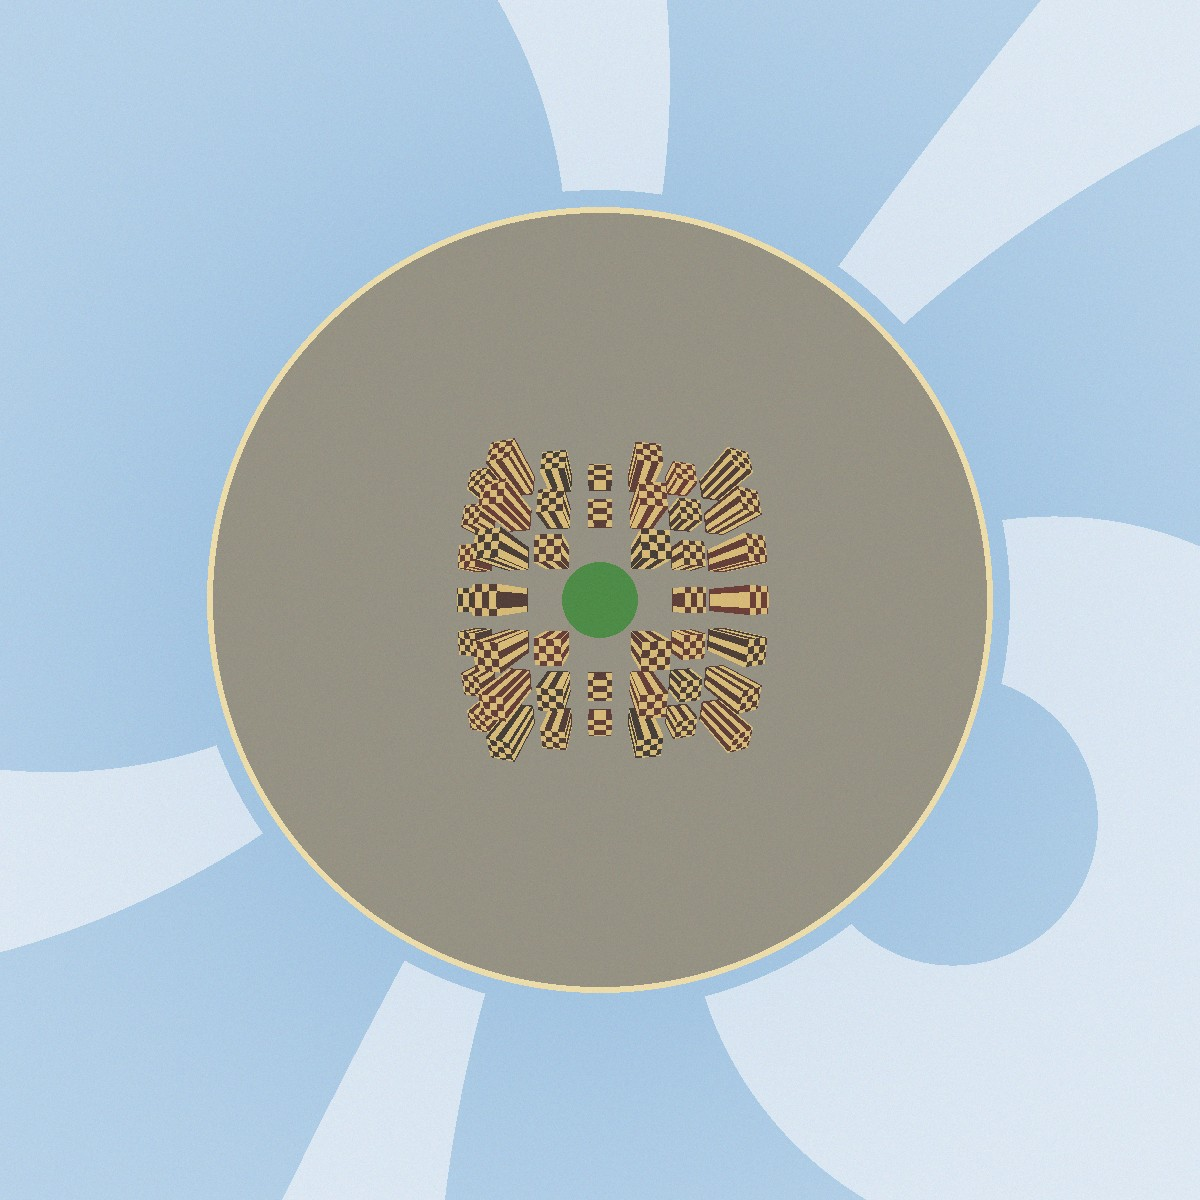
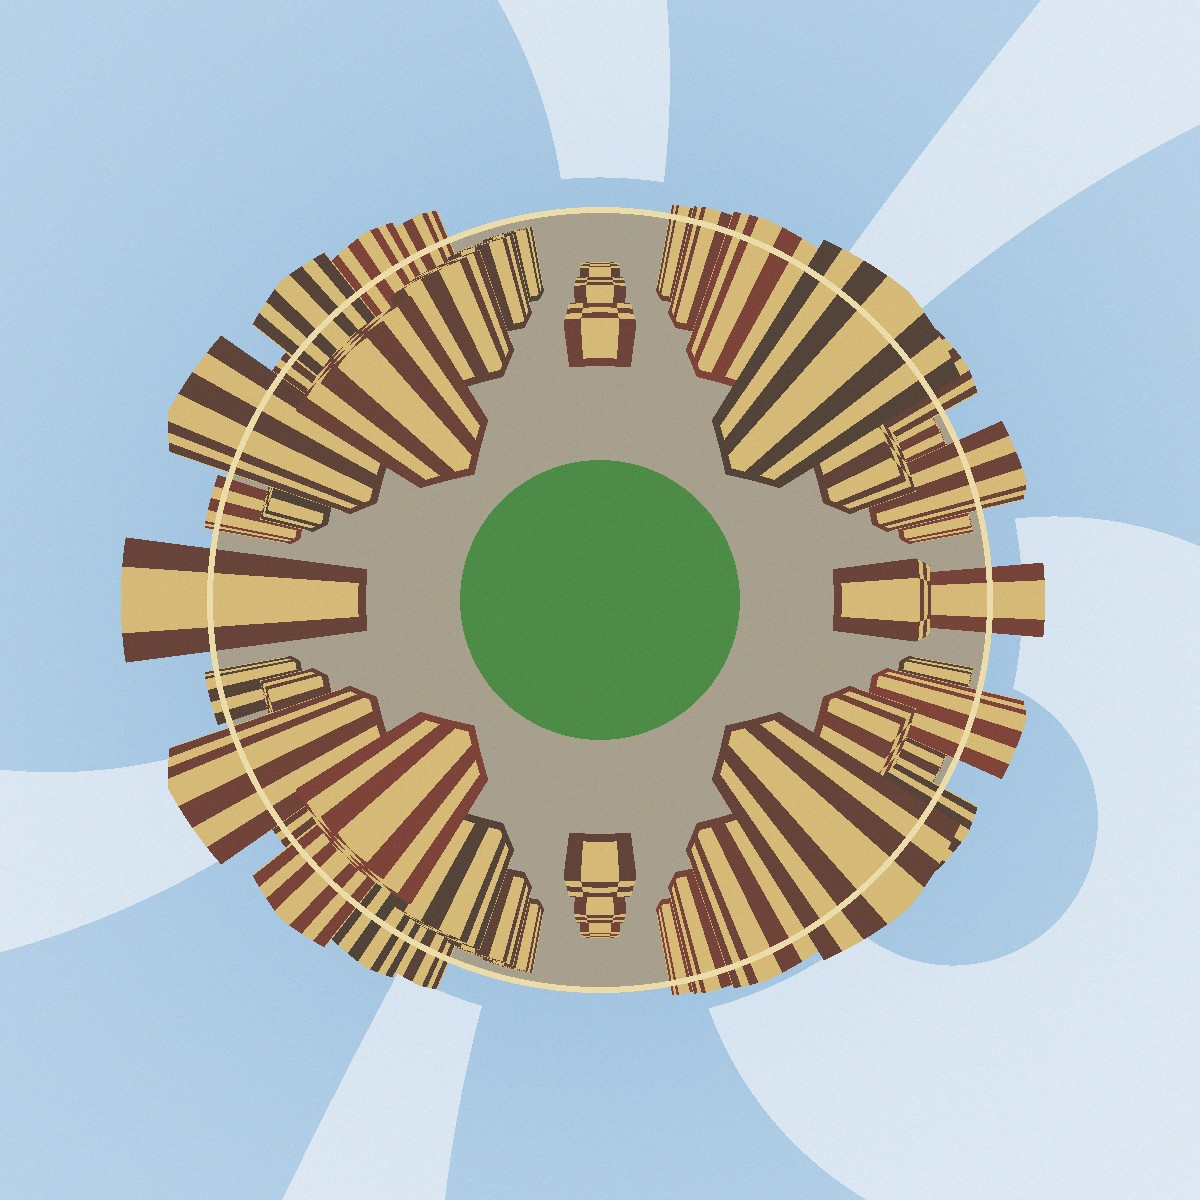
Fix top-view center detection and add center nudges

Changed region(s): [[0.0925, 0.1233, 0.8942, 0.8633]]

diff --git a/en.html b/en.html
@@ -89,6 +89,12 @@
       <p class="note">Where to start unwrapping the circle. 0° is the right side. A full turn returns to the same picture.</p>
     </div>
 
+    <label>Center left–right <span class="val" id="cxVal">0%</span></label>
+    <input id="cx" type="range" min="-40" max="40" value="0" step="1" />
+    <label>Center up–down <span class="val" id="cyVal">0%</span></label>
+    <input id="cy" type="range" min="-40" max="40" value="0" step="1" />
+    <p class="note">0% is the circle found automatically, as a percent of its radius. Right and down are positive. Used for every view and every crop.</p>
+
     <label class="check"><input id="auto" type="checkbox" checked /> Convert automatically after upload</label>
     <label class="check"><input id="mirror" type="checkbox" /> Flip left–right</label>
 
@@ -233,51 +239,58 @@ function detectBottom() {
 }
 
 function detectTop() {
-  const N = 120;
-  const lum = new Float32Array(N * N);
+  const N = 90;
+  const pix = new Float32Array(N * N * 3);
   for (let y = 0; y < N; y++) {
     const iy = Math.min(srcH - 1, ((y + 0.5) * srcH / N) | 0);
     for (let x = 0; x < N; x++) {
       const ix = Math.min(srcW - 1, ((x + 0.5) * srcW / N) | 0);
       const i = (iy * srcW + ix) * 4;
-      lum[y * N + x] = (srcData[i] + srcData[i + 1] + srcData[i + 2]) / 3;
+      const o = (y * N + x) * 3;
+      pix[o] = srcData[i]; pix[o + 1] = srcData[i + 1]; pix[o + 2] = srcData[i + 2];
     }
   }
-  const vari = new Float32Array(N * N);
-  for (let y = 1; y < N - 1; y++) {
-    for (let x = 1; x < N - 1; x++) {
-      let s = 0, s2 = 0;
-      for (let dy = -1; dy <= 1; dy++) for (let dx = -1; dx <= 1; dx++) {
-        const v = lum[(y + dy) * N + x + dx];
-        s += v; s2 += v * v;
+  function bestRing(cx, cy) {
+    const sum = new Float64Array(N * 3);
+    const cnt = new Int32Array(N);
+    for (let y = 0; y < N; y++) {
+      for (let x = 0; x < N; x++) {
+        const r = Math.hypot(x - cx, y - cy) | 0;
+        if (r >= N) continue;
+        const o = (y * N + x) * 3;
+        sum[r * 3] += pix[o]; sum[r * 3 + 1] += pix[o + 1]; sum[r * 3 + 2] += pix[o + 2];
+        cnt[r]++;
       }
-      const m = s / 9;
-      vari[y * N + x] = s2 / 9 - m * m;
+    }
+    let best = 0, br = N * 0.32;
+    for (let r = 8; r < N * 0.48; r++) {
+      const inn = [0, 0, 0], out = [0, 0, 0];
+      let ni = 0, no = 0;
+      for (let k = r - 2; k < r; k++) if (k >= 0 && cnt[k]) { ni += cnt[k]; for (let c = 0; c < 3; c++) inn[c] += sum[k * 3 + c]; }
+      for (let k = r; k < r + 2 && k < N; k++) if (cnt[k]) { no += cnt[k]; for (let c = 0; c < 3; c++) out[c] += sum[k * 3 + c]; }
+      if (ni < 8 || no < 8) continue;
+      let diff = 0;
+      for (let c = 0; c < 3; c++) diff += Math.abs(inn[c] / ni - out[c] / no);
+      if (diff > best) { best = diff; br = r; }
+    }
+    return { best, br };
+  }
+  let score = -1, bcx = N / 2, bcy = N / 2, br = N * 0.32;
+  for (let cy = (N * 0.2) | 0; cy < N * 0.8; cy += 3) {
+    for (let cx = (N * 0.2) | 0; cx < N * 0.8; cx += 3) {
+      const hit = bestRing(cx, cy);
+      if (hit.best > score) { score = hit.best; bcx = cx; bcy = cy; br = hit.br; }
     }
   }
-  function ring(cx, cy, r0, r1) {
-    let s = 0, n = 0;
-    const a = r0 * r0, b = r1 * r1;
-    for (let y = 0; y < N; y++) for (let x = 0; x < N; x++) {
-      const d2 = (x - cx) ** 2 + (y - cy) ** 2;
-      if (d2 >= a && d2 < b) { s += vari[y * N + x]; n++; }
-    }
-    return n ? s / n : 0;
-  }
-  let best = -1e9, bcx = N / 2, bcy = N * 0.46;
-  for (let cy = (N * 0.3) | 0; cy < N * 0.65; cy += 3) {
-    for (let cx = (N * 0.3) | 0; cx < N * 0.7; cx += 3) {
-      const score = ring(cx, cy, N * 0.16, N * 0.28) - ring(cx, cy, N * 0.36, N * 0.46);
-      if (score > best) { best = score; bcx = cx; bcy = cy; }
+  const x0 = Math.max(2, bcx - 4), x1 = Math.min(N - 3, bcx + 4);
+  const y0 = Math.max(2, bcy - 4), y1 = Math.min(N - 3, bcy + 4);
+  for (let cy = y0; cy <= y1; cy++) {
+    for (let cx = x0; cx <= x1; cx++) {
+      const hit = bestRing(cx, cy);
+      if (hit.best > score) { score = hit.best; bcx = cx; bcy = cy; br = hit.br; }
     }
   }
-  let prev = ring(bcx, bcy, 8, 14), dropR = N * 0.32, bestDrop = 0;
-  for (let r = 16; r < N * 0.48; r += 2) {
-    const now = ring(bcx, bcy, r, r + 6);
-    if (prev - now > bestDrop) { bestDrop = prev - now; dropR = r + 3; }
-    prev = now;
-  }
-  return { cx: bcx * srcW / N, cy: bcy * srcH / N, r: dropR * (srcW + srcH) / (2 * N) };
+  return { cx: bcx * srcW / N, cy: bcy * srcH / N, r: br * (srcW + srcH) / (2 * N) };
 }
 
 function sample(x, y) {
@@ -304,8 +317,11 @@ function buildPlan() {
     const lam0 = ((x + 0.5) / width) * Math.PI * 2 + start;
     return mirror ? lam0 : -lam0;
   };
-  const disk = view === "top" ? detectTop() : view === "bottom" ? detectBottom() : detectSide();
-  const { cx, cy, r } = disk;
+  const disk = baseDisk();
+  const nudge = disk.r / 100;
+  const cx = disk.cx + Number($("cx").value) * nudge;
+  const cy = disk.cy + Number($("cy").value) * nudge;
+  const r = disk.r;
   let W, H, summary, ray;
 
   if (view === "side") {
@@ -459,6 +475,33 @@ function paint() {
   requestAnimationFrame(step);
 }
 
+let diskCache = null;
+function baseDisk() {
+  if (!diskCache) {
+    const view = viewEl.value;
+    diskCache = view === "top" ? detectTop() : view === "bottom" ? detectBottom() : detectSide();
+  }
+  return diskCache;
+}
+function markCenter() {
+  if (!srcData || !srcCtx) return;
+  srcCtx.putImageData(new ImageData(new Uint8ClampedArray(srcData), srcW, srcH), 0, 0);
+  const disk = baseDisk();
+  const nudge = disk.r / 100;
+  const cx = disk.cx + Number($("cx").value) * nudge;
+  const cy = disk.cy + Number($("cy").value) * nudge;
+  srcCtx.save();
+  srcCtx.strokeStyle = "#e0a15a";
+  srcCtx.lineWidth = Math.max(2, srcW / 500);
+  srcCtx.beginPath();
+  srcCtx.arc(cx, cy, Math.max(2, disk.r), 0, Math.PI * 2);
+  const arm = Math.max(8, disk.r * 0.045);
+  srcCtx.moveTo(cx - arm, cy); srcCtx.lineTo(cx + arm, cy);
+  srcCtx.moveTo(cx, cy - arm); srcCtx.lineTo(cx, cy + arm);
+  srcCtx.stroke();
+  srcCtx.restore();
+}
+
 function loadFile(file) {
   const url = URL.createObjectURL(file);
   const img = new Image();
@@ -475,6 +518,11 @@ function loadFile(file) {
     srcCtx = srcCanvas.getContext("2d", { willReadFrequently: true });
     srcCtx.drawImage(img, 0, 0, srcW, srcH);
     srcData = srcCtx.getImageData(0, 0, srcW, srcH).data;
+    $("cx").value = 0;
+    $("cy").value = 0;
+    diskCache = null;
+    syncUi();
+    markCenter();
     $("go").disabled = false;
     $("status").textContent = $("auto").checked
       ? `Loaded ${img.naturalWidth}×${img.naturalHeight}.`
@@ -504,6 +552,8 @@ function syncUi() {
   $("cropVal").textContent = `${cropEl.value}%`;
   $("aspectVal").textContent = Number(aspectEl.value).toFixed(2);
   $("startVal").textContent = `${$("start").value}°`;
+  $("cxVal").textContent = `${$("cx").value}%`;
+  $("cyVal").textContent = `${$("cy").value}%`;
   const notes = {
     side: "The centre is looking forward. Crop is the share of pixels cut from the top and the bottom of the circle.",
     bottom: "The centre is looking up. Crop is the area of the centre. Default 3%. Aspect ratio is available only at 0%.",
@@ -533,7 +583,7 @@ function maybePaint() {
   if ($("auto").checked && srcData) paint();
 }
 
-viewEl.addEventListener("change", () => { applyViewDefaults(); syncUi(); maybePaint(); });
+viewEl.addEventListener("change", () => { diskCache = null; applyViewDefaults(); syncUi(); markCenter(); maybePaint(); });
 cropEl.addEventListener("input", syncUi);
 cropEl.addEventListener("change", maybePaint);
 aspectEl.addEventListener("input", syncUi);
@@ -541,6 +591,11 @@ aspectEl.addEventListener("change", () => { if (Number(cropEl.value) === 0) mayb
 mirrorEl.addEventListener("change", maybePaint);
 $("start").addEventListener("input", syncUi);
 $("start").addEventListener("change", () => { if (viewEl.value !== "side") maybePaint(); });
+function onCenterMove() { syncUi(); markCenter(); }
+$("cx").addEventListener("input", onCenterMove);
+$("cy").addEventListener("input", onCenterMove);
+$("cx").addEventListener("change", maybePaint);
+$("cy").addEventListener("change", maybePaint);
 $("go").addEventListener("click", paint);
 $("save").addEventListener("click", () => {
   $("dst").toBlob((blob) => {

diff --git a/index.html b/index.html
@@ -89,6 +89,12 @@
       <p class="note">圓周由邊一度開始拆。0° 係圓嘅右面，轉一圈會返到同一張相。</p>
     </div>
 
+    <label>圓心左右 <span class="val" id="cxVal">0%</span></label>
+    <input id="cx" type="range" min="-40" max="40" value="0" step="1" />
+    <label>圓心上下 <span class="val" id="cyVal">0%</span></label>
+    <input id="cy" type="range" min="-40" max="40" value="0" step="1" />
+    <p class="note">0% 係自動搵到嘅圓心，以個圓半徑計。右同下係正數。三個視角、有冇裁切都用同一組。</p>
+
     <label class="check"><input id="auto" type="checkbox" checked /> 上傳後自動展開</label>
     <label class="check"><input id="mirror" type="checkbox" /> 左右反轉</label>
 
@@ -233,51 +239,58 @@ function detectBottom() {
 }
 
 function detectTop() {
-  const N = 120;
-  const lum = new Float32Array(N * N);
+  const N = 90;
+  const pix = new Float32Array(N * N * 3);
   for (let y = 0; y < N; y++) {
     const iy = Math.min(srcH - 1, ((y + 0.5) * srcH / N) | 0);
     for (let x = 0; x < N; x++) {
       const ix = Math.min(srcW - 1, ((x + 0.5) * srcW / N) | 0);
       const i = (iy * srcW + ix) * 4;
-      lum[y * N + x] = (srcData[i] + srcData[i + 1] + srcData[i + 2]) / 3;
+      const o = (y * N + x) * 3;
+      pix[o] = srcData[i]; pix[o + 1] = srcData[i + 1]; pix[o + 2] = srcData[i + 2];
     }
   }
-  const vari = new Float32Array(N * N);
-  for (let y = 1; y < N - 1; y++) {
-    for (let x = 1; x < N - 1; x++) {
-      let s = 0, s2 = 0;
-      for (let dy = -1; dy <= 1; dy++) for (let dx = -1; dx <= 1; dx++) {
-        const v = lum[(y + dy) * N + x + dx];
-        s += v; s2 += v * v;
+  function bestRing(cx, cy) {
+    const sum = new Float64Array(N * 3);
+    const cnt = new Int32Array(N);
+    for (let y = 0; y < N; y++) {
+      for (let x = 0; x < N; x++) {
+        const r = Math.hypot(x - cx, y - cy) | 0;
+        if (r >= N) continue;
+        const o = (y * N + x) * 3;
+        sum[r * 3] += pix[o]; sum[r * 3 + 1] += pix[o + 1]; sum[r * 3 + 2] += pix[o + 2];
+        cnt[r]++;
       }
-      const m = s / 9;
-      vari[y * N + x] = s2 / 9 - m * m;
+    }
+    let best = 0, br = N * 0.32;
+    for (let r = 8; r < N * 0.48; r++) {
+      let ai = 0, ao = 0, ni = 0, no = 0;
+      const inn = [0, 0, 0], out = [0, 0, 0];
+      for (let k = r - 2; k < r; k++) if (k >= 0 && cnt[k]) { ni += cnt[k]; for (let c = 0; c < 3; c++) inn[c] += sum[k * 3 + c]; }
+      for (let k = r; k < r + 2 && k < N; k++) if (cnt[k]) { no += cnt[k]; for (let c = 0; c < 3; c++) out[c] += sum[k * 3 + c]; }
+      if (ni < 8 || no < 8) continue;
+      let diff = 0;
+      for (let c = 0; c < 3; c++) diff += Math.abs(inn[c] / ni - out[c] / no);
+      if (diff > best) { best = diff; br = r; }
+    }
+    return { best, br };
+  }
+  let score = -1, bcx = N / 2, bcy = N / 2, br = N * 0.32;
+  for (let cy = (N * 0.2) | 0; cy < N * 0.8; cy += 3) {
+    for (let cx = (N * 0.2) | 0; cx < N * 0.8; cx += 3) {
+      const hit = bestRing(cx, cy);
+      if (hit.best > score) { score = hit.best; bcx = cx; bcy = cy; br = hit.br; }
     }
   }
-  function ring(cx, cy, r0, r1) {
-    let s = 0, n = 0;
-    const a = r0 * r0, b = r1 * r1;
-    for (let y = 0; y < N; y++) for (let x = 0; x < N; x++) {
-      const d2 = (x - cx) ** 2 + (y - cy) ** 2;
-      if (d2 >= a && d2 < b) { s += vari[y * N + x]; n++; }
-    }
-    return n ? s / n : 0;
-  }
-  let best = -1e9, bcx = N / 2, bcy = N * 0.46;
-  for (let cy = (N * 0.3) | 0; cy < N * 0.65; cy += 3) {
-    for (let cx = (N * 0.3) | 0; cx < N * 0.7; cx += 3) {
-      const score = ring(cx, cy, N * 0.16, N * 0.28) - ring(cx, cy, N * 0.36, N * 0.46);
-      if (score > best) { best = score; bcx = cx; bcy = cy; }
+  const x0 = Math.max(2, bcx - 4), x1 = Math.min(N - 3, bcx + 4);
+  const y0 = Math.max(2, bcy - 4), y1 = Math.min(N - 3, bcy + 4);
+  for (let cy = y0; cy <= y1; cy++) {
+    for (let cx = x0; cx <= x1; cx++) {
+      const hit = bestRing(cx, cy);
+      if (hit.best > score) { score = hit.best; bcx = cx; bcy = cy; br = hit.br; }
     }
   }
-  let prev = ring(bcx, bcy, 8, 14), dropR = N * 0.32, bestDrop = 0;
-  for (let r = 16; r < N * 0.48; r += 2) {
-    const now = ring(bcx, bcy, r, r + 6);
-    if (prev - now > bestDrop) { bestDrop = prev - now; dropR = r + 3; }
-    prev = now;
-  }
-  return { cx: bcx * srcW / N, cy: bcy * srcH / N, r: dropR * (srcW + srcH) / (2 * N) };
+  return { cx: bcx * srcW / N, cy: bcy * srcH / N, r: br * (srcW + srcH) / (2 * N) };
 }
 
 function sample(x, y) {
@@ -304,8 +317,11 @@ function buildPlan() {
     const lam0 = ((x + 0.5) / width) * Math.PI * 2 + start;
     return mirror ? lam0 : -lam0;
   };
-  const disk = view === "top" ? detectTop() : view === "bottom" ? detectBottom() : detectSide();
-  const { cx, cy, r } = disk;
+  const disk = baseDisk();
+  const nudge = disk.r / 100;
+  const cx = disk.cx + Number($("cx").value) * nudge;
+  const cy = disk.cy + Number($("cy").value) * nudge;
+  const r = disk.r;
   let W, H, summary, ray;
 
   if (view === "side") {
@@ -459,6 +475,33 @@ function paint() {
   requestAnimationFrame(step);
 }
 
+let diskCache = null;
+function baseDisk() {
+  if (!diskCache) {
+    const view = viewEl.value;
+    diskCache = view === "top" ? detectTop() : view === "bottom" ? detectBottom() : detectSide();
+  }
+  return diskCache;
+}
+function markCenter() {
+  if (!srcData || !srcCtx) return;
+  srcCtx.putImageData(new ImageData(new Uint8ClampedArray(srcData), srcW, srcH), 0, 0);
+  const disk = baseDisk();
+  const nudge = disk.r / 100;
+  const cx = disk.cx + Number($("cx").value) * nudge;
+  const cy = disk.cy + Number($("cy").value) * nudge;
+  srcCtx.save();
+  srcCtx.strokeStyle = "#e0a15a";
+  srcCtx.lineWidth = Math.max(2, srcW / 500);
+  srcCtx.beginPath();
+  srcCtx.arc(cx, cy, Math.max(2, disk.r), 0, Math.PI * 2);
+  const arm = Math.max(8, disk.r * 0.045);
+  srcCtx.moveTo(cx - arm, cy); srcCtx.lineTo(cx + arm, cy);
+  srcCtx.moveTo(cx, cy - arm); srcCtx.lineTo(cx, cy + arm);
+  srcCtx.stroke();
+  srcCtx.restore();
+}
+
 function loadFile(file) {
   const url = URL.createObjectURL(file);
   const img = new Image();
@@ -475,6 +518,11 @@ function loadFile(file) {
     srcCtx = srcCanvas.getContext("2d", { willReadFrequently: true });
     srcCtx.drawImage(img, 0, 0, srcW, srcH);
     srcData = srcCtx.getImageData(0, 0, srcW, srcH).data;
+    $("cx").value = 0;
+    $("cy").value = 0;
+    diskCache = null;
+    syncUi();
+    markCenter();
     $("go").disabled = false;
     $("status").textContent = $("auto").checked
       ? `已載入 ${img.naturalWidth}×${img.naturalHeight}。`
@@ -504,6 +552,8 @@ function syncUi() {
   $("cropVal").textContent = `${cropEl.value}%`;
   $("aspectVal").textContent = Number(aspectEl.value).toFixed(2);
   $("startVal").textContent = `${$("start").value}°`;
+  $("cxVal").textContent = `${$("cx").value}%`;
+  $("cyVal").textContent = `${$("cy").value}%`;
   const notes = {
     side: "圓心當望前。裁切係圓頂同圓底各佔幾多像素。",
     bottom: "圓心當望天。裁切係圓心面積。預設 3%。0% 先可以調寬高比。",
@@ -533,7 +583,7 @@ function maybePaint() {
   if ($("auto").checked && srcData) paint();
 }
 
-viewEl.addEventListener("change", () => { applyViewDefaults(); syncUi(); maybePaint(); });
+viewEl.addEventListener("change", () => { diskCache = null; applyViewDefaults(); syncUi(); markCenter(); maybePaint(); });
 cropEl.addEventListener("input", syncUi);
 cropEl.addEventListener("change", maybePaint);
 aspectEl.addEventListener("input", syncUi);
@@ -541,6 +591,11 @@ aspectEl.addEventListener("change", () => { if (Number(cropEl.value) === 0) mayb
 mirrorEl.addEventListener("change", maybePaint);
 $("start").addEventListener("input", syncUi);
 $("start").addEventListener("change", () => { if (viewEl.value !== "side") maybePaint(); });
+function onCenterMove() { syncUi(); markCenter(); }
+$("cx").addEventListener("input", onCenterMove);
+$("cy").addEventListener("input", onCenterMove);
+$("cx").addEventListener("change", maybePaint);
+$("cy").addEventListener("change", maybePaint);
 $("go").addEventListener("click", paint);
 $("save").addEventListener("click", () => {
   $("dst").toBlob((blob) => {
